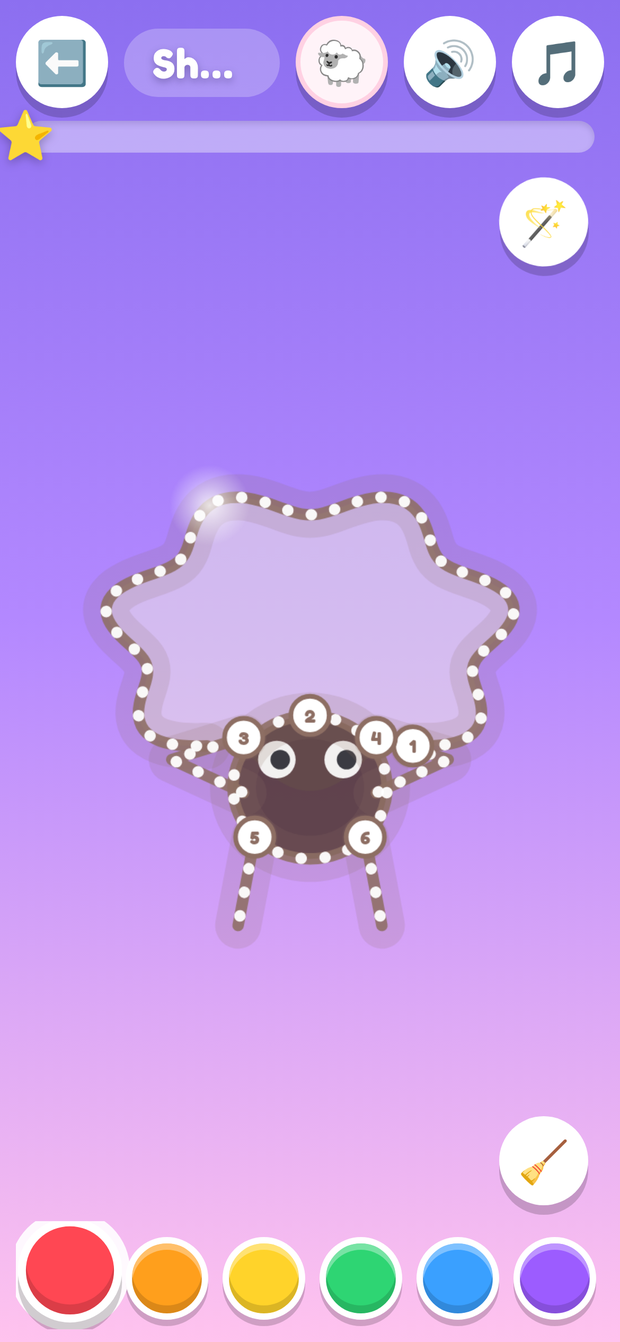
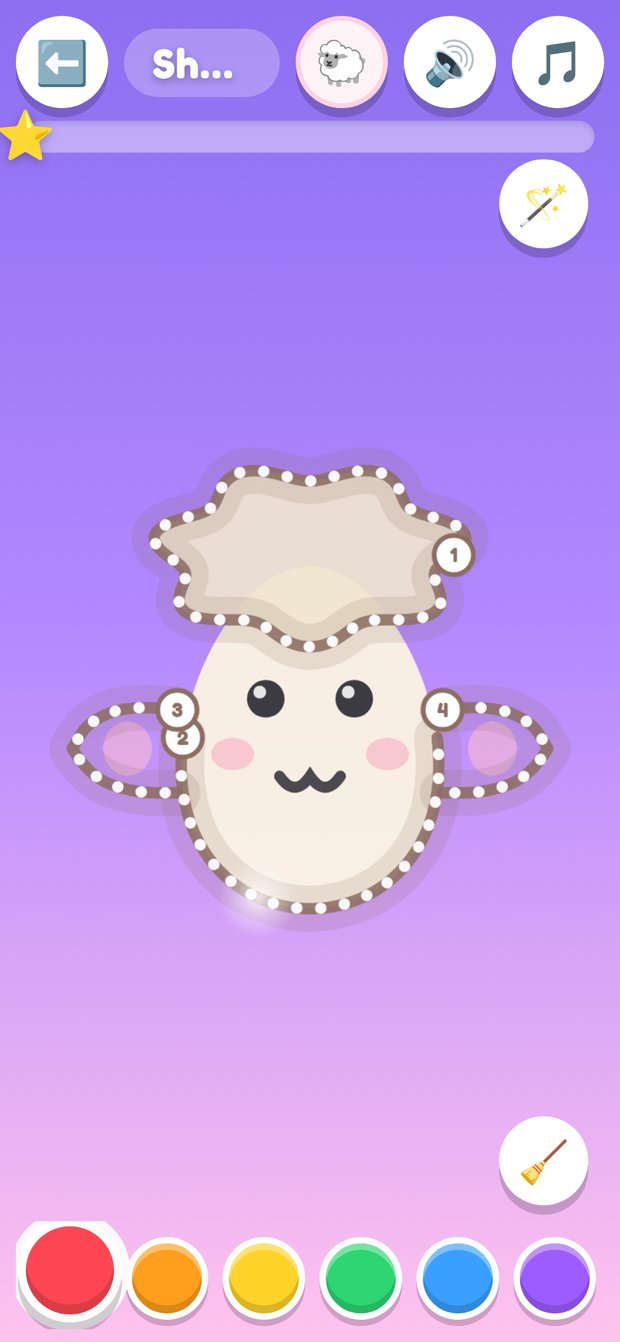
v1.1.2: smiling animal faces + guide-based sheep redesign
- Sheep: chibi head-only redesign after classic clipart guide - wool
  scalloped hat on a big cream face, leaf ears with pink inners,
  round glinted eyes, omega nose marks (new eggPts helper)
- Chick: front-facing face - orange diamond beak between the eyes,
  rosy cheeks, symmetric side wings, centered tufts and legs
- Bee: clear yellow face zone - bigger eyes + smile + cheeks above
  the stripes (stripes moved down)
- Cat + rabbit: smiling faces (pink triangle nose + omega / smile),
  new decorative mouth layer in engine + picker thumbnails
- README v1.1.2 changelog, retaken animals picker + sheep screenshots
- Versions: sw cache draw-learn-v1.1.2, package 1.1.2, versionCode 5

Changed region(s): [[0.0613, 0.3361, 0.9194, 0.7027], [0.7968, 0.0917, 0.95, 0.2139]]

diff --git a/js/data.js b/js/data.js
@@ -221,11 +221,25 @@
     return pts;
   }
 
+  // Egg outline (narrow at the top, wider at the bottom — chibi critter head).
+  // Same angle convention as arc(); rx interpolates rxTop→rxBottom.
+  function eggPts(cx, cy, rxTop, rxBottom, ry, a0, a1, n) {
+    var pts = [];
+    for (var i = 0; i <= n; i++) {
+      var t = ((a0 + (a1 - a0) * i / n) * Math.PI) / 180;
+      var rx = rxBottom + (rxTop - rxBottom) * (1 - Math.sin(t)) / 2;
+      pts.push([cx + rx * Math.cos(t), cy + ry * Math.sin(t)]);
+    }
+    return pts;
+  }
+
   // Each animal: traceable outline strokes + its very own sound (see audio.js)
-  // PLUS the two things that make a critter readable BEFORE it is traced:
+  // PLUS the things that make a critter readable BEFORE it is traced:
   //   fill — soft pre-applied color regions: [{ c: '#hex', p: [closed pts], a: alpha }]
   //   eyes — decorative (non-traceable) eyes: [x, y, radius] or [x, y, radius, 'w']
-  //          ('w' = white sclera + pupil, for dark faces like the sheep's)
+  //          ('w' = white sclera + pupil, for dark faces)
+  //   mouth — decorative smile: [cx, cy, halfWidth, depth, 'arc'|'cat']
+  //          ('arc' = single smile curve, 'cat' = classic ω double bump)
   //   color — the road/card color, tuned to the animal's natural hue.
   var DUCK_BODY = [[48, 40], [58, 44], [68, 49], [79, 44], [75, 58], [68, 66],
                    [56, 72], [42, 72], [30, 66], [23, 56], [22, 46], [30, 39], [42, 36]];
@@ -233,8 +247,12 @@
   var ANIMALS = [
     { id: 'cat', name: 'Cat', emoji: '\uD83D\uDC31', sound: 'meow', color: '#FB8C00',
       say: 'A cat! Can you draw the cat?',
-      fill: [{ c: '#FFC66E', p: arc(50, 58, 30, 28, 270, 630, 40) }],
-      eyes: [[41, 53, 3.4], [59, 53, 3.4]],
+      fill: [{ c: '#FFC66E', p: arc(50, 58, 30, 28, 270, 630, 40) },
+             { c: '#F06292', a: 0.8, p: [[46.5, 58], [53.5, 58], [50, 63]] },
+             { c: '#FF9E80', a: 0.35, p: arc(33, 60, 4.5, 3, 270, 630, 16) },
+             { c: '#FF9E80', a: 0.35, p: arc(67, 60, 4.5, 3, 270, 630, 16) }],
+      eyes: [[41, 52, 3.4], [59, 52, 3.4]],
+      mouth: [50, 65, 5.5, 4.5, 'cat'],
       strokes: [arc(50, 58, 30, 28, 270, -90, 40),
                 [[29, 40], [21, 14], [41, 33]],
                 [[71, 40], [79, 14], [59, 33]]] },
@@ -253,8 +271,11 @@
       fill: [{ c: '#FCE4EC', p: arc(50, 70, 24, 19, 270, 630, 36) },
              { c: '#FFC1D8', a: 0.4, p: arc(38, 34, 4, 14, 270, 630, 20) },
              { c: '#FFC1D8', a: 0.4, p: arc(62, 34, 4, 14, 270, 630, 20) },
-             { c: '#F06292', a: 0.5, p: arc(50, 71, 2.5, 1.8, 270, 630, 12) }],
-      eyes: [[43, 66, 3], [57, 66, 3]],
+             { c: '#F06292', a: 0.8, p: [[46.5, 67], [53.5, 67], [50, 72]] },
+             { c: '#F8BBD0', a: 0.45, p: arc(37, 72, 4, 3, 270, 630, 14) },
+             { c: '#F8BBD0', a: 0.45, p: arc(63, 72, 4, 3, 270, 630, 14) }],
+      eyes: [[43, 64, 3.2], [57, 64, 3.2]],
+      mouth: [50, 76, 5, 3.5, 'arc'],
       strokes: [arc(38, 34, 8, 20, 270, -90, 28),
                 arc(62, 34, 8, 20, 270, -90, 28),
                 arc(50, 70, 24, 19, 270, -90, 36)] },
@@ -269,16 +290,19 @@
                 [[22, 28], [8, 32], [22, 36]]] },
     { id: 'chick', name: 'Chick', emoji: '\uD83D\uDC24', sound: 'cheep', color: '#F57F17',
       say: 'A little chick! Can you draw the chick?',
-      fill: [{ c: '#FFD93B', p: arc(48, 52, 27, 25, 270, 630, 40) },
-             { c: '#FF9F43', a: 0.45, p: [[73, 46], [88, 53], [73, 60]] }],
-      eyes: [[40, 46, 3.2], [56, 46, 3.2]],
-      strokes: [arc(48, 52, 27, 25, 270, -90, 40),
-                [[73, 46], [88, 53], [73, 60]],
-                arc(45, 57, 11, 8, 150, 30, 18),
-                [[44, 26], [40, 17]],
-                [[54, 26], [58, 17]],
-                [[42, 77], [37, 92]],
-                [[56, 77], [61, 92]]] },
+      fill: [{ c: '#FFD93B', a: 0.5, p: arc(50, 54, 26, 24, 270, 630, 40) },
+             { c: '#FFA000', a: 0.85, p: [[45, 53], [50, 48], [55, 53], [50, 58]] },
+             { c: '#FFAB40', a: 0.35, p: arc(34, 51, 3.5, 2.8, 270, 630, 14) },
+             { c: '#FFAB40', a: 0.35, p: arc(66, 51, 3.5, 2.8, 270, 630, 14) }],
+      eyes: [[41, 46, 3.2], [59, 46, 3.2]],
+      strokes: [arc(50, 54, 26, 24, 270, -90, 40),
+                [[45, 53], [50, 48], [55, 53], [50, 58], [45, 53]],
+                [[44, 31], [40, 22]],
+                [[56, 31], [60, 22]],
+                arc(41, 63, 11, 9, 120, 240, 14),
+                arc(59, 63, 11, 9, -60, 60, 14),
+                [[42, 78], [37, 93]],
+                [[56, 78], [61, 93]]] },
     { id: 'cow', name: 'Cow', emoji: '\uD83D\uDC2E', sound: 'moo', color: '#6D4C41',
       say: 'A cow! Can you draw the cow?',
       fill: [{ c: '#FDF3E7', p: arc(50, 56, 38, 24, 270, 630, 44) },
@@ -296,15 +320,20 @@
                 arc(50, 68, 20, 10, 270, -90, 28)] },
     { id: 'sheep', name: 'Sheep', emoji: '\uD83D\uDC11', sound: 'baa', color: '#8D6E63',
       say: 'A sheep! Can you draw the sheep?',
-      fill: [{ c: '#F4EEE1', a: 0.5, p: cloudPts(50, 40, 34, 25, 7, 0.11) },
-             { c: '#4E342E', a: 0.85, p: arc(50, 67, 14, 13, 270, 630, 32) }],
-      eyes: [[44, 62, 3.4, 'w'], [56, 62, 3.4, 'w']],
-      strokes: [cloudPts(50, 40, 34, 25, 7, 0.11, -55, 235),
-                arc(50, 67, 14, 13, 270, -90, 32),
-                [[38, 58], [25, 62], [38, 68]],
-                [[62, 58], [75, 62], [62, 68]],
-                [[40, 76], [37, 92]],
-                [[60, 76], [63, 92]]] },
+      // Chibi head-only sheep (classic clipart look): big soft face, woolly
+      // "hat" cloud with a scalloped brim, leaf ears, ω nose marks.
+      fill: [{ c: '#FBF3E3', a: 0.95, p: eggPts(50, 58, 19, 27, 31, 270, 630, 44) },
+             { c: '#EFE5D0', a: 0.92, p: cloudPts(50, 25, 26, 15, 7, 0.11) },
+             { c: '#F8BBD0', a: 0.6, p: arc(17, 60, 4.5, 5, 270, 630, 16) },
+             { c: '#F8BBD0', a: 0.6, p: arc(83, 60, 4.5, 5, 270, 630, 16) },
+             { c: '#F48FB1', a: 0.4, p: arc(36, 61, 4, 3, 270, 630, 14) },
+             { c: '#F48FB1', a: 0.4, p: arc(64, 61, 4, 3, 270, 630, 14) }],
+      eyes: [[42, 51, 3.4], [58, 51, 3.4]],
+      mouth: [50, 65, 5.5, 4, 'cat'],
+      strokes: [cloudPts(50, 25, 26, 15, 7, 0.11, 0, 360),
+                eggPts(50, 58, 19, 27, 31, 180, 0, 30),
+                [[26, 53], [18, 52], [10, 55], [7, 60], [10, 65], [18, 68], [26, 68]],
+                [[74, 53], [82, 52], [90, 55], [93, 60], [90, 65], [82, 68], [74, 68]]] },
     { id: 'fish', name: 'Fish', emoji: '\uD83D\uDC1F', sound: 'blub', color: '#FF7043',
       say: 'A fish! Can you draw the fish?',
       fill: [{ c: '#FFAB91', p: arc(44, 50, 30, 21, 270, 630, 44) },
@@ -314,15 +343,19 @@
                 [[74, 50], [88, 34], [82, 50], [88, 66], [74, 50]]] },
     { id: 'bee', name: 'Bee', emoji: '\uD83D\uDC1D', sound: 'buzz', color: '#FFA000',
       say: 'A buzzy bee! Can you draw the bee?',
-      fill: [{ c: '#FFE66D', p: arc(50, 60, 26, 17, 270, 630, 40) },
-             { c: '#6D4C41', a: 0.35, p: [[38, 54], [44, 54], [44, 74], [38, 74]] },
-             { c: '#6D4C41', a: 0.35, p: [[58, 54], [64, 54], [64, 74], [58, 74]] },
+      // Yellow face zone on top (eyes + smile + rosy cheeks), dark stripes below.
+      fill: [{ c: '#FFE66D', a: 0.45, p: arc(50, 60, 26, 17, 270, 630, 40) },
+             { c: '#6D4C41', a: 0.35, p: [[38, 59], [44, 59], [44, 73], [38, 73]] },
+             { c: '#6D4C41', a: 0.35, p: [[56, 59], [62, 59], [62, 73], [56, 73]] },
              { c: '#D7ECFF', a: 0.5, p: arc(36, 32, 14, 11, 270, 630, 28) },
-             { c: '#D7ECFF', a: 0.5, p: arc(64, 32, 14, 11, 270, 630, 28) }],
-      eyes: [[44, 50, 2.8], [56, 50, 2.8]],
+             { c: '#D7ECFF', a: 0.5, p: arc(64, 32, 14, 11, 270, 630, 28) },
+             { c: '#F48FB1', a: 0.4, p: arc(37, 53, 3.5, 2.5, 270, 630, 14) },
+             { c: '#F48FB1', a: 0.4, p: arc(63, 53, 3.5, 2.5, 270, 630, 14) }],
+      eyes: [[44, 50, 3.2], [56, 50, 3.2]],
+      mouth: [50, 56, 4.5, 3, 'arc'],
       strokes: [arc(50, 60, 26, 17, 270, -90, 40),
-                [[41, 54], [41, 74]],
-                [[61, 54], [61, 74]],
+                [[41, 59], [41, 73]],
+                [[61, 59], [61, 73]],
                 arc(36, 32, 14, 11, 270, -90, 28),
                 arc(64, 32, 14, 11, 270, -90, 28),
                 [[76, 60], [86, 55], [76, 65]]] },
@@ -417,6 +450,7 @@
       color: a.color,
       fill: a.fill,
       eyes: a.eyes,
+      mouth: a.mouth,
       say: a.say,
       strokes: a.strokes
     });

diff --git a/js/game.js b/js/game.js
@@ -501,6 +501,7 @@
         ctx.fill(fp.path);
       }
       if (this.glyph.eyes) this._drawEyes(ctx);
+      if (this.glyph.mouth) this._drawMouth(ctx);
       ctx.restore();
     }
 
@@ -622,6 +623,31 @@
         ctx.fill();
       }
     });
+  };
+
+  // Decorative smile: 'arc' = single downward curve, 'cat' = classic ω
+  // double bump (used by cat + sheep noses/mouths).
+  DrawEngine.prototype._drawMouth = function (ctx) {
+    var m = this.glyph.mouth;
+    var x = this.box.x + m[0] * this.box.s;
+    var y = this.box.y + m[1] * this.box.s;
+    var hw = m[2] * this.box.s;
+    var d = m[3] * this.box.s;
+    ctx.save();
+    ctx.strokeStyle = '#2B2B33';
+    ctx.globalAlpha = 0.85;
+    ctx.lineWidth = Math.max(2, 2.0 * this.box.s);
+    ctx.lineCap = 'round';
+    ctx.beginPath();
+    ctx.moveTo(x - hw, y);
+    if (m[4] === 'cat') {
+      ctx.quadraticCurveTo(x - hw / 2, y + d, x, y);
+      ctx.quadraticCurveTo(x + hw / 2, y + d, x + hw, y);
+    } else {
+      ctx.quadraticCurveTo(x, y + d, x + hw, y);
+    }
+    ctx.stroke();
+    ctx.restore();
   };
 
   function _tinyStar(ctx, cx, cy, r) {

diff --git a/js/app.js b/js/app.js
@@ -137,6 +137,7 @@
       ctx.restore();
     }
     if (glyph.eyes) _drawEyes(ctx, glyph, ox, oy, s);
+    if (glyph.mouth) _drawMouth(ctx, glyph, ox, oy, s);
     ctx.globalAlpha = 0.16;
     ctx.strokeStyle = glyph.color;
     ctx.lineWidth = size / 26;
@@ -152,6 +153,27 @@
       _pathOn(ctx, stroke, ox, oy, s);
       ctx.stroke();
     });
+  }
+
+  // Decorative smile for picker cards (same look as the engine's).
+  function _drawMouth(ctx, glyph, ox, oy, s) {
+    var m = glyph.mouth;
+    var x = ox + m[0] * s, y = oy + m[1] * s, hw = m[2] * s, d = m[3] * s;
+    ctx.save();
+    ctx.strokeStyle = '#2B2B33';
+    ctx.globalAlpha = 0.85;
+    ctx.lineWidth = Math.max(1.5, 2.0 * s);
+    ctx.lineCap = 'round';
+    ctx.beginPath();
+    ctx.moveTo(x - hw, y);
+    if (m[4] === 'cat') {
+      ctx.quadraticCurveTo(x - hw / 2, y + d, x, y);
+      ctx.quadraticCurveTo(x + hw / 2, y + d, x + hw, y);
+    } else {
+      ctx.quadraticCurveTo(x, y + d, x + hw, y);
+    }
+    ctx.stroke();
+    ctx.restore();
   }
 
   function _pathOn(ctx, pts, ox, oy, s) {

diff --git a/sw.js b/sw.js
@@ -2,7 +2,7 @@
  * Draw & Learn — sw.js
  * Cache-first offline shell. Bump CACHE_VERSION to force refresh.
  */
-var CACHE_VERSION = 'draw-learn-v1.1.1';
+var CACHE_VERSION = 'draw-learn-v1.1.2';
 var CORE = [
   './',
   './index.html',

diff --git a/README.md b/README.md
@@ -24,7 +24,7 @@
 
 | | | |
 |:---:|:---:|:---:|
-| <img src="docs/screenshots/home.png" width="265" alt="Home screen"><br><sub><b>Pick a world</b> — animals, shapes, letters or numbers</sub> | <img src="docs/screenshots/picker-animals.png" width="265" alt="Animals picker"><br><sub><b>11 animals</b> — cat, dog, cow, duck… each with its sound 🐾</sub> | <img src="docs/screenshots/draw-animal.png" width="265" alt="Tracing a sheep"><br><sub><b>Fluffy sheep!</b> — pre-colored with eyes, tap 🐑: baa!</sub> |
+| <img src="docs/screenshots/home.png" width="265" alt="Home screen"><br><sub><b>Pick a world</b> — animals, shapes, letters or numbers</sub> | <img src="docs/screenshots/picker-animals.png" width="265" alt="Animals picker"><br><sub><b>11 animals</b> — cat, dog, cow, duck… each with its sound 🐾</sub> | <img src="docs/screenshots/draw-animal.png" width="265" alt="Tracing a sheep"><br><sub><b>Fluffy sheep!</b> — wool hat, leaf ears, smiley face, tap 🐑: baa!</sub> |
 | <img src="docs/screenshots/picker-letters.png" width="265" alt="Letters picker"><br><sub><b>26 cards</b> — every letter has its word 🍎⚽🐱</sub> | <img src="docs/screenshots/draw-letter.png" width="265" alt="Tracing the letter M"><br><sub><b>Follow the dotted road</b> — rainbow crayon!</sub> | <img src="docs/screenshots/draw-shape.png" width="265" alt="Tracing a star"><br><sub><b>Sharp corners</b> — polygons trace like real polygons</sub> |
 | <img src="docs/screenshots/celebration.png" width="265" alt="Celebration"><br><sub><b>Confetti!</b> — impossible to fail, always a win</sub> | <img src="docs/screenshots/picker-shapes.png" width="265" alt="Shapes picker"><br><sub><b>14 shapes</b> — circle to star to sunshine</sub> |  |
 
@@ -37,6 +37,7 @@
 - 👆 **Impossible to fail** — no scores, no timers, no wrong answers. Follow the dotted road, wander off it, scribble all over — it's all fine. Cover enough of the guide (about 80%) and the confetti flies.
 - 🎈 **Guides that teach themselves** — numbered start badges show stroke order, marching candy dots show the direction (letters like C, G, O are traced counter-clockwise, the way schools teach it), and a glowing hint orb demonstrates the path whenever they pause.
 - 🔊 **It talks** — 86 recorded lines: the voice names every item ("M is for Moon!", "A cat! Can you draw the cat?"), cheers progress, and celebrates the win. Punchy pop / swish / sparkle sound effects, 11 animal sounds and a gentle music loop are synthesized live in the browser — one tap to mute.
+- 😊 **Faces with character** — eyes, smiles and ω noses are pre-drawn on every animal (smiling cat and rabbit, beaked chick, woolly sheep), so each critter reads instantly at toddler-eye level.
 - 🎉 **Celebrations!** — confetti bursts, a big "You did it!", and gold stars collected per category.
 - 📴 **Works offline** — install once (APK or PWA), then it's airplane-mode friendly. No account, no ads, no tracking, no in-app purchases. Nothing to tap but the game.
 
@@ -126,6 +127,8 @@ docs/                 banner + screenshots
 - A tiny shape-matching mini-game
 
 ## 📝 Changelog
+
+**v1.1.2** — *smiling faces + a cuter sheep:* the **sheep was redesigned** as a chibi head-only cutie — fluffy scalloped wool sitting like a hat on a big soft face, leaf ears, round eyes and little ω nose marks (classic clipart look). The **chick got a proper front-facing face** (orange diamond beak right between the eyes, rosy cheeks, symmetric wings), and the **bee's face zone moved up** — eyes, smile and cheeks sit clearly above the stripes. The **cat and rabbit are smiling now** (pink triangle nose + ω / curved smile), and every smile renders in the picker thumbnails too.
 
 **v1.1.1** — *recognizable animals:* every animal now arrives **pre-colored in its natural hue** (yellow chick, brown owl, pink rabbit, cream-wool sheep…) with **cute decorative eyes**, so toddlers recognize each critter before tracing. Chick, sheep and owl redesigned from scratch; cow rebuilt with a wide face, top horns and leaf ears; bee got a proper face zone above its stripes. The pig was removed. Everything verified in a 4-round visual review — 11/11 animals recognizable.
 
